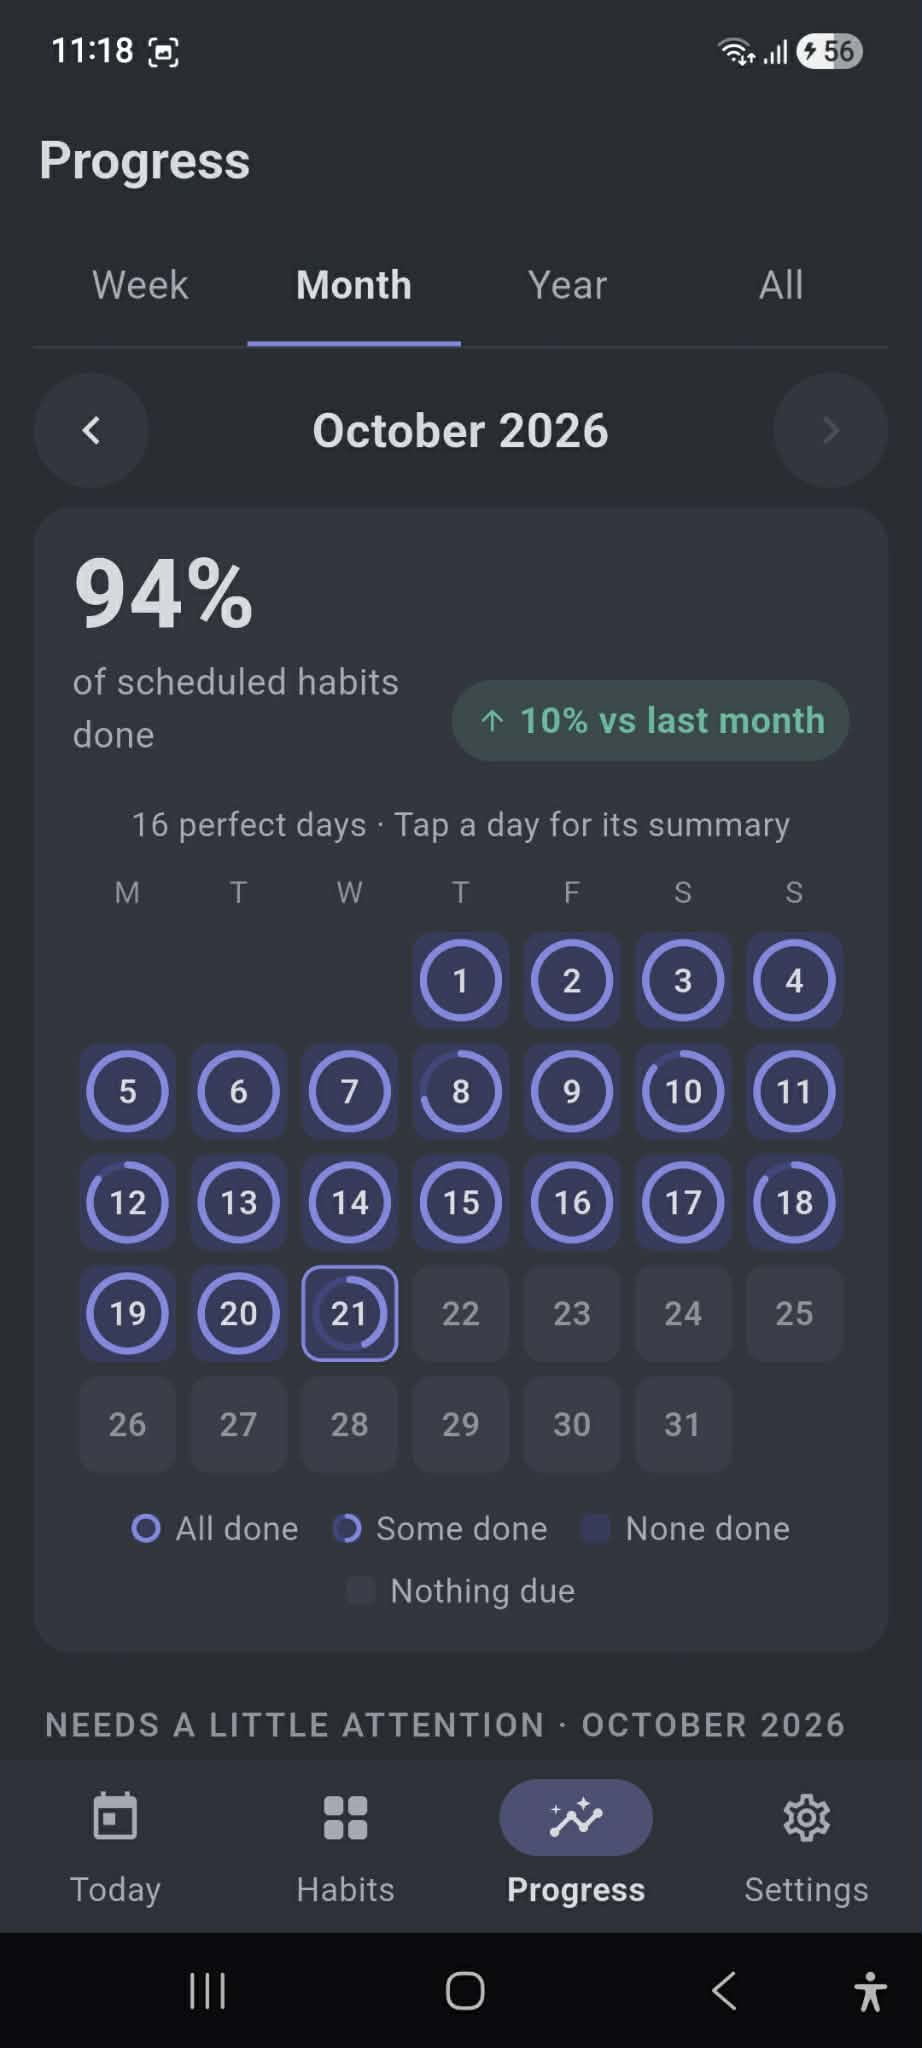
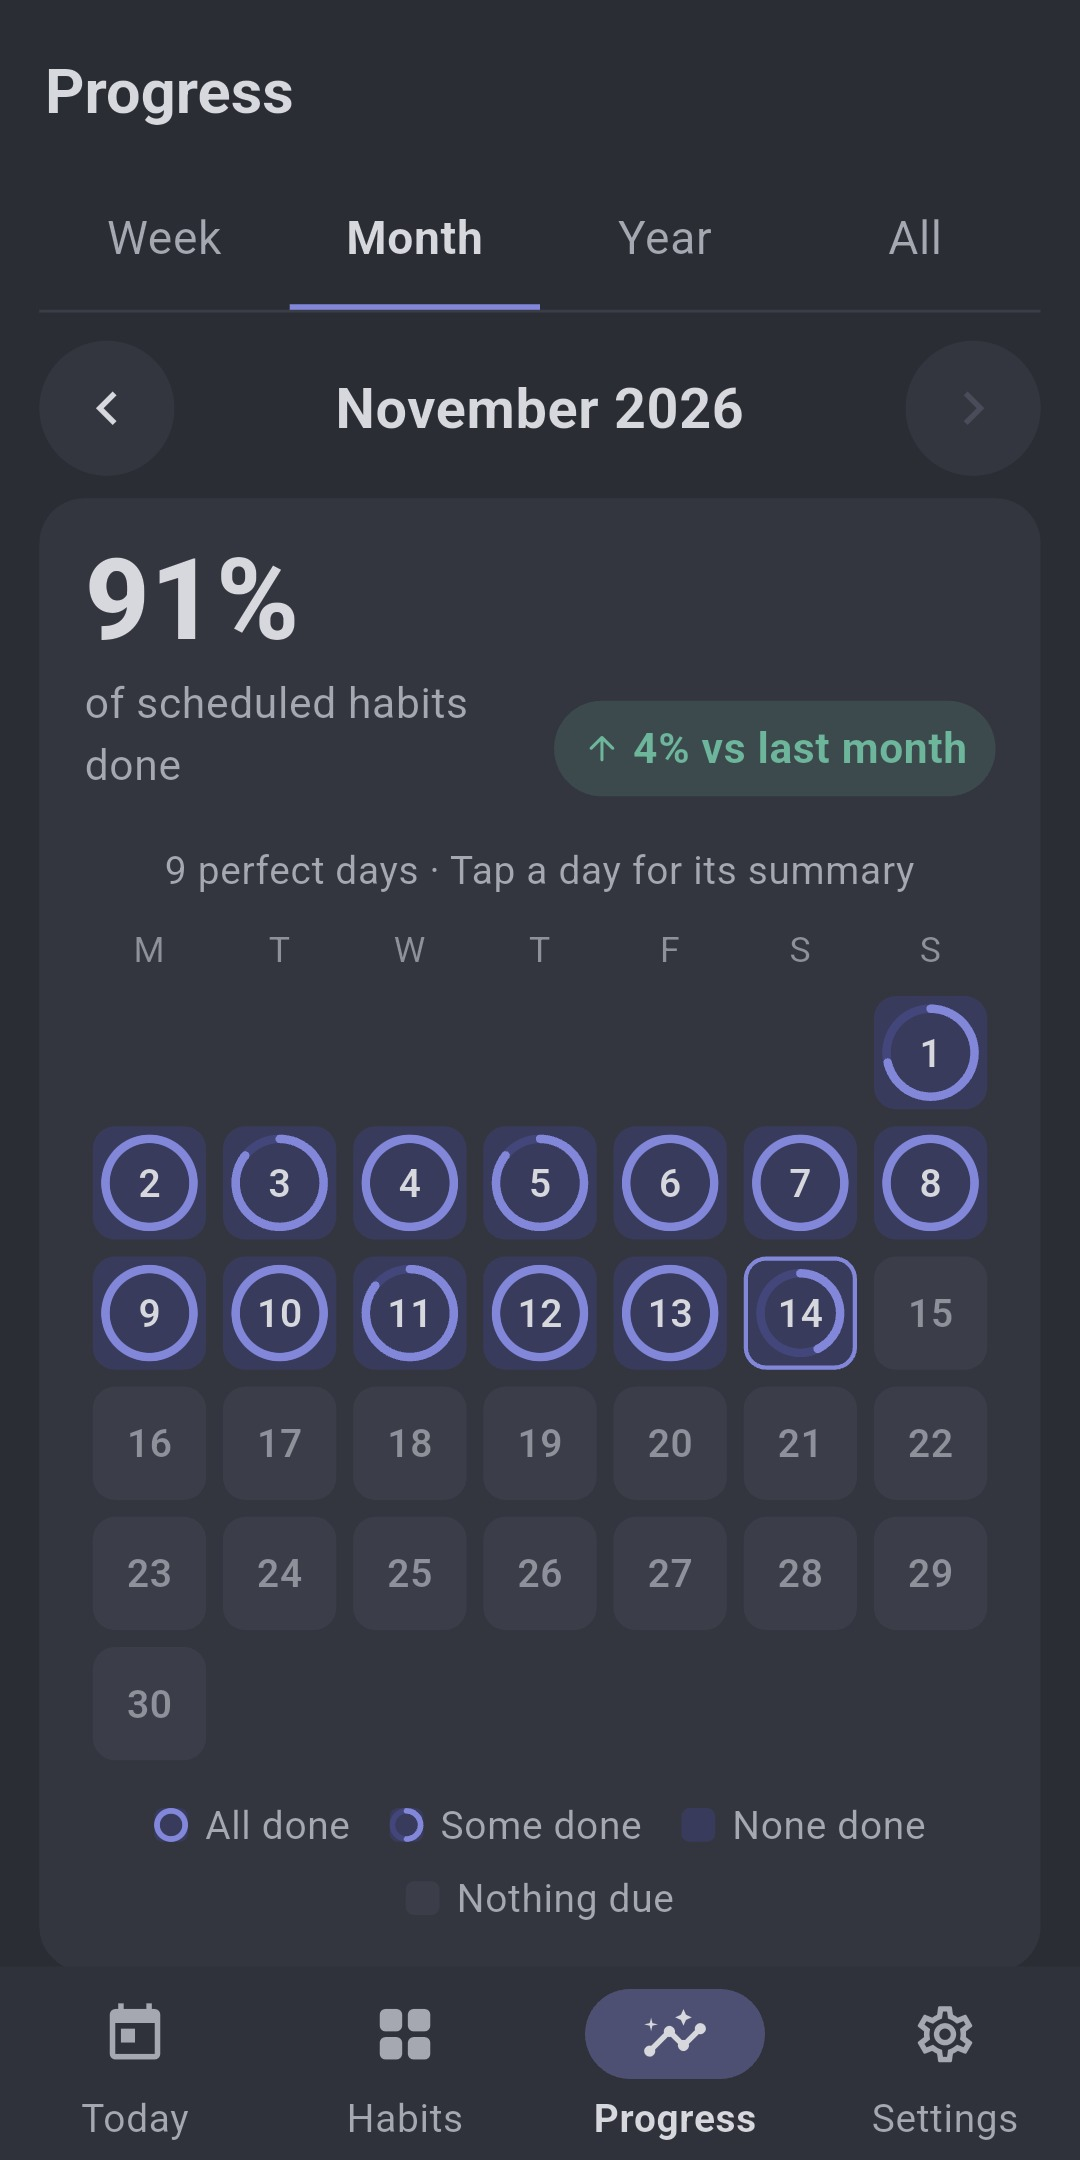
Preview and privacy policy for Daybeat 1.15
The preview now says what the store listing says: Daybeat is the habit
tracker that helps you come back after you slip. Features lead with
never missed twice, the Why, habit versions and the new reminders.
Screenshots are the new 2:1 set; the habit page shows Meditate.

The privacy policy now covers what 1.15 does: spoken reminders hand
the habit's name and Why to the phone's text-to-speech engine, Google
Play checks for updates, and two permissions are new (foreground
service for alarm sound, network state from WorkManager). Read storage
is gone from the list: the app no longer asks for it.

diff --git a/preview/index.html b/preview/index.html
@@ -96,40 +96,42 @@
   </section>
 
   <section class="shots" aria-label="Screenshots">
-    <img src="img/1-today.jpg" alt="Today screen: habits grouped by morning and evening, with streaks, timers and a note">
-    <img src="img/2-day-sheet.jpg" alt="A habit's day sheet: done, start timer, how did it go, time sessions and a note">
-    <img src="img/3-focus-timer.jpg" alt="Focus timer running a Pomodoro, focus 1 of 4, 39:53 left">
-    <img src="img/4-water-habits-detail-page.jpg" alt="Drink water habit page: 66 check-ins, best streak 24, 3 streak freezes left, October calendar">
-    <img src="img/5-tracked-time-chart.jpg" alt="Time tracked today: 52 minutes, split between Exercise and Meditate">
+    <img src="img/1-today.jpg" alt="Today screen: a day note, 3 of 7 done, morning habits ticked with their streaks and times">
+    <img src="img/2-day-sheet.jpg" alt="Exercise day sheet: its Why, done in 39 minutes, and how it went: showed up, good or great, each with its own version">
+    <img src="img/3-focus-timer.jpg" alt="Meditate timer running, 9:32 left, alarm until dismissed at the end">
+    <img src="img/4-habit-page.jpg" alt="Meditate habit page: its Why, 26-day live streak, never missed twice for 71 days, 3 streak freezes left">
+    <img src="img/5-tracked-time-chart.jpg" alt="Time tracked today: 54 minutes, split between Exercise and Meditate">
     <img src="img/6-habits-page.jpg" alt="Habits page: every habit with its recent history as a grid of days">
-    <img src="img/7-progress.jpg" alt="Progress: 94% of scheduled habits done in October, 16 perfect days">
+    <img src="img/7-progress.jpg" alt="Progress: 91% of scheduled habits done in November, 9 perfect days, 4% up on last month">
     <img src="img/8-widget.jpg" alt="Home screen widgets: today's seven habits, 3 of 7 done, plus single-habit widgets for Journal and Drink water">
   </section>
 
   <section class="about">
     <h2>About this app</h2>
-    <p>Daybeat is a habit tracker that helps you find your daily rhythm and keep it. Plan your day, tick habits off, keep your streaks going, and time the things that take time. No account, no ads, no tracking: everything stays on your phone.</p>
-    <div class="chips"><span>Habit tracker</span><span>Streaks</span><span>Pomodoro</span><span>Widgets</span><span>Private</span></div>
+    <p>Daybeat is the habit tracker that helps you come back after you slip.</p>
+    <p>Most habit apps drop your streak to zero the moment you miss a day, and that zero is when most people quit. Daybeat treats the day after a miss as the most important day: it shows you what you've already built, reminds you why you started, and makes showing up again easy. No account, no ads, no tracking: everything stays on your phone.</p>
+    <div class="chips"><span>Habit tracker</span><span>Streaks</span><span>Comebacks</span><span>Reminders</span><span>Private</span></div>
   </section>
 
   <section class="features" aria-label="Features">
+    <div><h3>Built for the day after a miss</h3><ul>
+      <li>Never missed twice: a count that only breaks on two misses in a row</li>
+      <li>A welcome back with your best run so far, not a guilt trip</li>
+      <li>Streak freezes, vacation dates and rest days keep your streak safe</li></ul></div>
+    <div><h3>Remember why you started</h3><ul>
+      <li>A Why for each habit, on the habit, its reminder and hard days</li>
+      <li>Three versions of every habit; on a bad day the small one still counts</li>
+      <li>Starter habits come with a Why and versions ready to go</li></ul></div>
+    <div><h3>Reminders that get you moving</h3><ul>
+      <li>Pop up with the habit's name and Why, or say them out loud</li>
+      <li>Or an alarm that rings until you slide to stop, even over the lock screen</li>
+      <li>Pick the sound, fade it in, choose how long it rings</li></ul></div>
     <div><h3>Your day at a glance</h3><ul>
       <li>Habits grouped into morning, afternoon, evening and anytime</li>
       <li>One tap to tick, or count up to a goal like 8 glasses of water</li>
-      <li>A note for any day, and how it went: showed up, good or great</li></ul></div>
-    <div><h3>Schedules that fit</h3><ul>
-      <li>Days of the week, times per week, days of the month, or every few days</li>
-      <li>Rest days and vacation dates keep your streak safe</li></ul></div>
-    <div><h3>Streaks and wins</h3><ul>
-      <li>A streak per habit and one for the whole day</li>
-      <li>Three streak freezes a month for the days that get away</li>
-      <li>Celebrations for perfect days, milestones and new bests</li></ul></div>
-    <div><h3>Timers built in</h3><ul>
-      <li>Stopwatch, countdown or Pomodoro</li>
-      <li>Time goals that tick the habit when you reach them</li>
-      <li>Every session kept in the habit's history</li></ul></div>
-    <div><h3>Reminders and widgets</h3><ul>
-      <li>Several reminder times per habit, as a notification or an alarm</li>
+      <li>Schedules by weekday, times per week, month days or every few days</li></ul></div>
+    <div><h3>Timers and widgets</h3><ul>
+      <li>Stopwatch, countdown or Pomodoro, with time goals that tick the habit</li>
       <li>Tick habits and run timers from your home screen</li></ul></div>
     <div><h3>Progress</h3><ul>
       <li>Calendars and completion rates per habit and per day</li>

diff --git a/privacy-policy.html b/privacy-policy.html
@@ -23,7 +23,7 @@
 <body>
 <main>
   <h1>Daybeat Privacy Policy</h1>
-  <p class="date">Effective 19 October 2026</p>
+  <p class="date">Effective 14 November 2026</p>
 
   <p>Daybeat is a habit tracker for Android, made by one independent developer. In short: <strong>everything you enter stays on your phone. The app collects nothing, shares nothing, and has no way to send data over the internet.</strong></p>
 
@@ -36,6 +36,12 @@
   <h2>Backups</h2>
   <p>You can export a backup file from Settings. You choose where it is saved: your phone's storage, a cloud drive app, or anywhere else Android offers. Once saved, that file is handled by whichever app or service you chose, under its own terms. Importing a backup only reads the file you pick.</p>
 
+  <h2>Spoken reminders</h2>
+  <p>If you turn on "Say it out loud" for a habit, its reminder hands the habit's name, and its Why if you chose that, to the text-to-speech engine installed on your phone (for example Google's or Samsung's), which reads it aloud. Daybeat sends that text nowhere else. The engine is a separate app on your phone and works under its own terms.</p>
+
+  <h2>App updates</h2>
+  <p>When you open Daybeat, it asks the Google Play Store app on your phone whether a newer version is available, and Play can download it for you. That check and download are done by Google Play under Google's terms. Daybeat itself still has no internet access and sends none of your data.</p>
+
   <h2>Permissions and why they are used</h2>
   <ul>
     <li><strong>Notifications</strong>: habit reminders and the timer.</li>
@@ -43,7 +49,8 @@
     <li><strong>Full-screen notifications</strong>: reminders and timers you set to ring as an alarm can show over the lock screen.</li>
     <li><strong>Run at startup</strong>: puts your reminders back after the phone restarts.</li>
     <li><strong>Vibration and keeping the device awake</strong>: so a reminder or timer alarm is noticed.</li>
-    <li><strong>Read storage</strong> (Android 12 and older only): to open a backup file you choose to import.</li>
+    <li><strong>Foreground service (media playback)</strong>: an alarm plays its sound, fades it in and keeps ringing until you stop it.</li>
+    <li><strong>View network state</strong>: added by Android's background-task library (WorkManager), It only lets the app see whether the phone is online; it cannot send anything.</li>
   </ul>
   <p>None of these permissions are used to collect or send information.</p>
 
